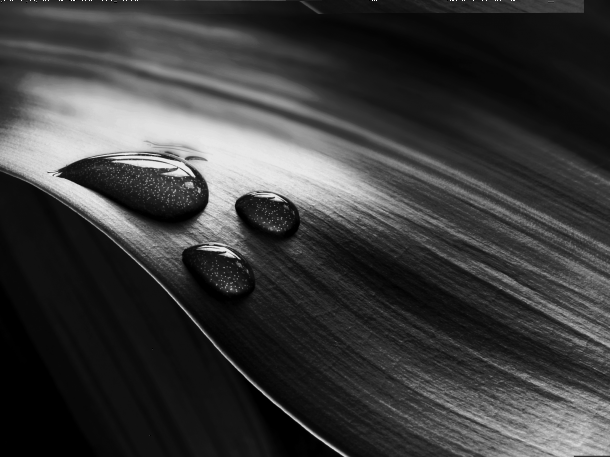
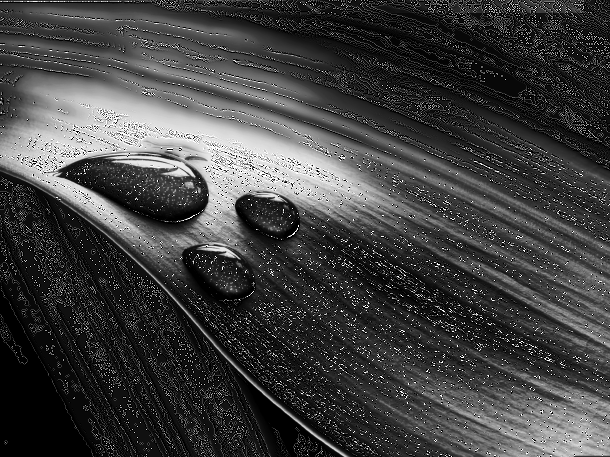
vers finale ?

diff --git a/Perona.py b/Perona.py
@@ -28,7 +28,7 @@ def grad(U):
             grad[k - 1, l - 1][1] = float(vec[1])
             #if k > 458 :
             #    print("grad k l = ",k,l,grad[k-1][l-1])
-    print(grad)
+    #print(grad)
     return (grad)
 
 #Computes div(P)
@@ -84,7 +84,7 @@ def create_f_matrix(pic, sigma):
     grad_of_F = grad(F)
     f_matrix = np.empty(grad_of_F.shape, dtype=object)
     n, m = grad_of_F.shape
-    print(n,m)
+    #print(n,m)
     for i in range(n):
         for j in range(m):
             f_matrix[i][j] = np.exp(-(np.linalg.norm(grad_of_F[i][j]))**2)
@@ -94,7 +94,7 @@ def plot_f(name_image, sigma):
     im = Image.open(name_image)
     pic = np.array(im, dtype='int64')
     f_matrix = create_f_matrix(pic, sigma)
-    print(f_matrix)
+    #print(f_matrix)
     solution_im = Image.fromarray(f_matrix)
     solution_im.show()
     #print(f_matrix[300][300])
@@ -125,7 +125,7 @@ def filter_perona(name_image, N, step, sigma):
                 for k in range(2):
                     matrix_in_div[i][j][k] = f_matrix[i][j]*grad_pic[i][j][k]
     perona_filter_function = lambda U, t: div_operator(matrix_in_div)
-    print(matrix_in_div)
+    #print(matrix_in_div)
     solution_picture = met.meth_n_stepx(pic, 0, N, step, perona_filter_function, met.step_euler)[-1]
     solution_im = Image.fromarray(solution_picture)
     solution_im.show()
@@ -146,12 +146,12 @@ def test_kernel():
     print(kernel_gaussian(1.4, 5))
 
 def test_filter_perona():
-    print(filter_perona("picture.png", 200, 0.2, 1.2))
+    print(filter_perona("picture.png", 200, 0.2, 1.5))
 
 if __name__ == '__main__':
-    #test_filter_euler()
-    #test_create_f()
-    #test_kernel()
+    test_filter_euler()
+    test_create_f()
+    test_kernel()
     test_filter_perona()
 
 #plot_f("picture.png",1.2)
